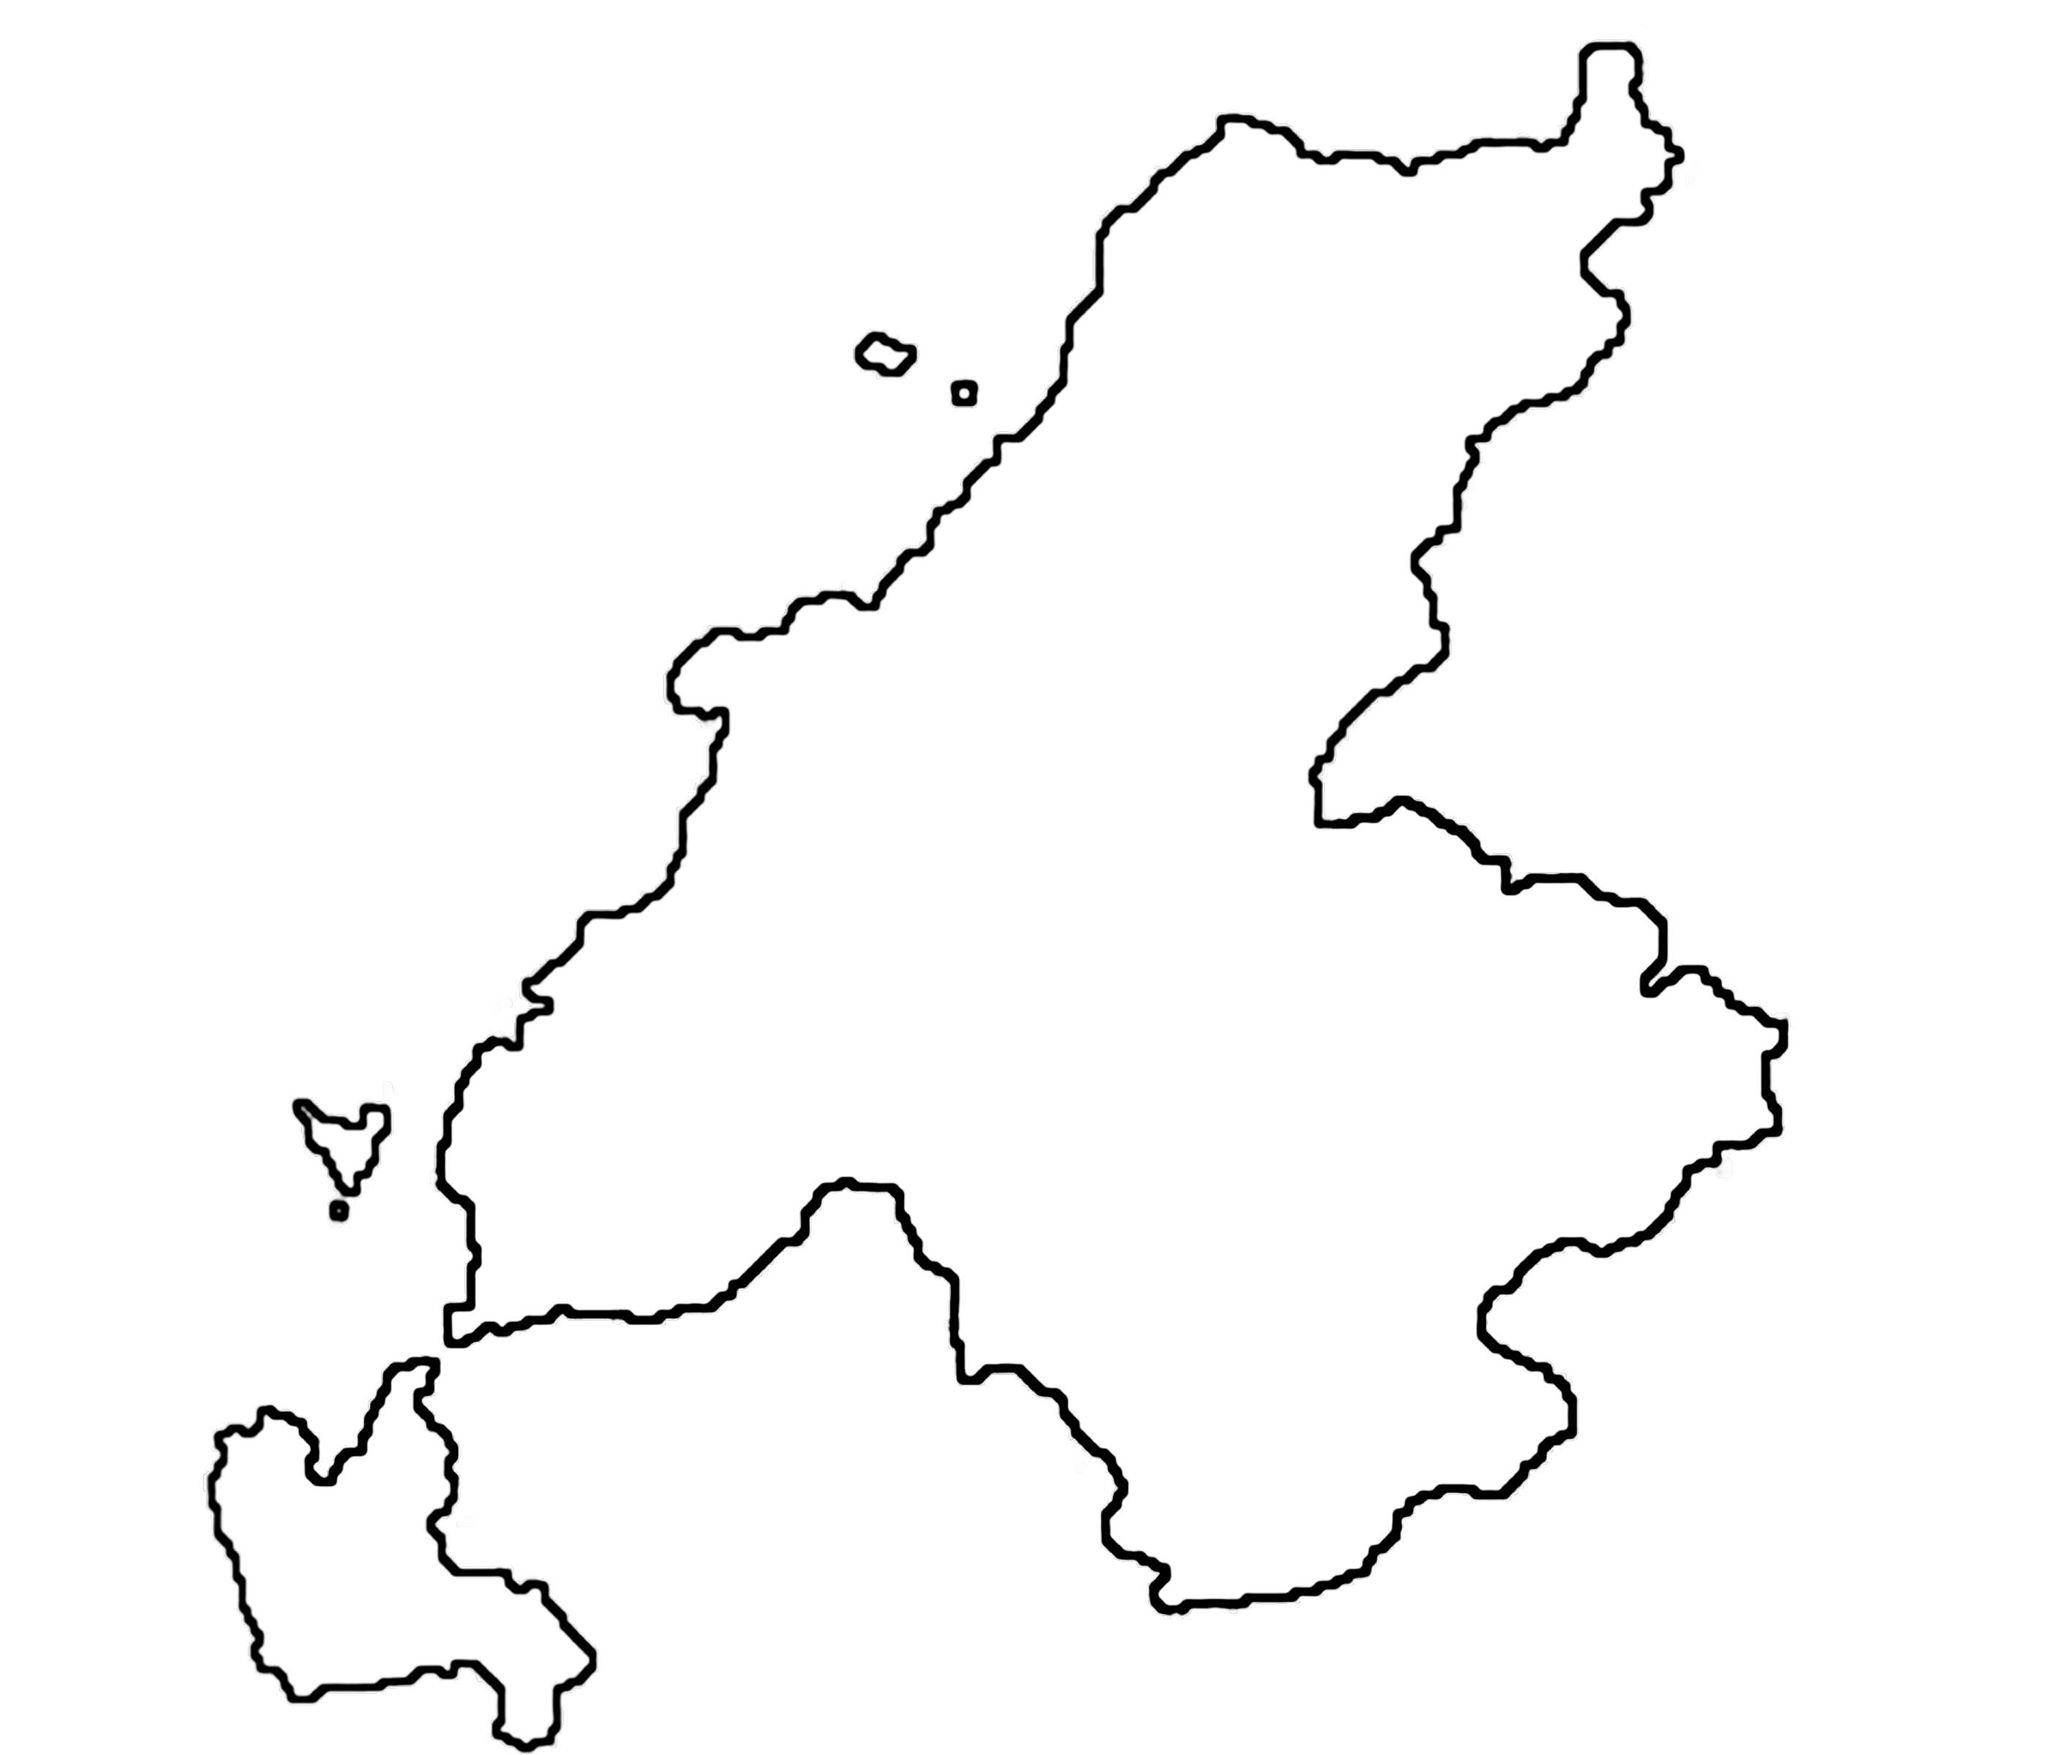
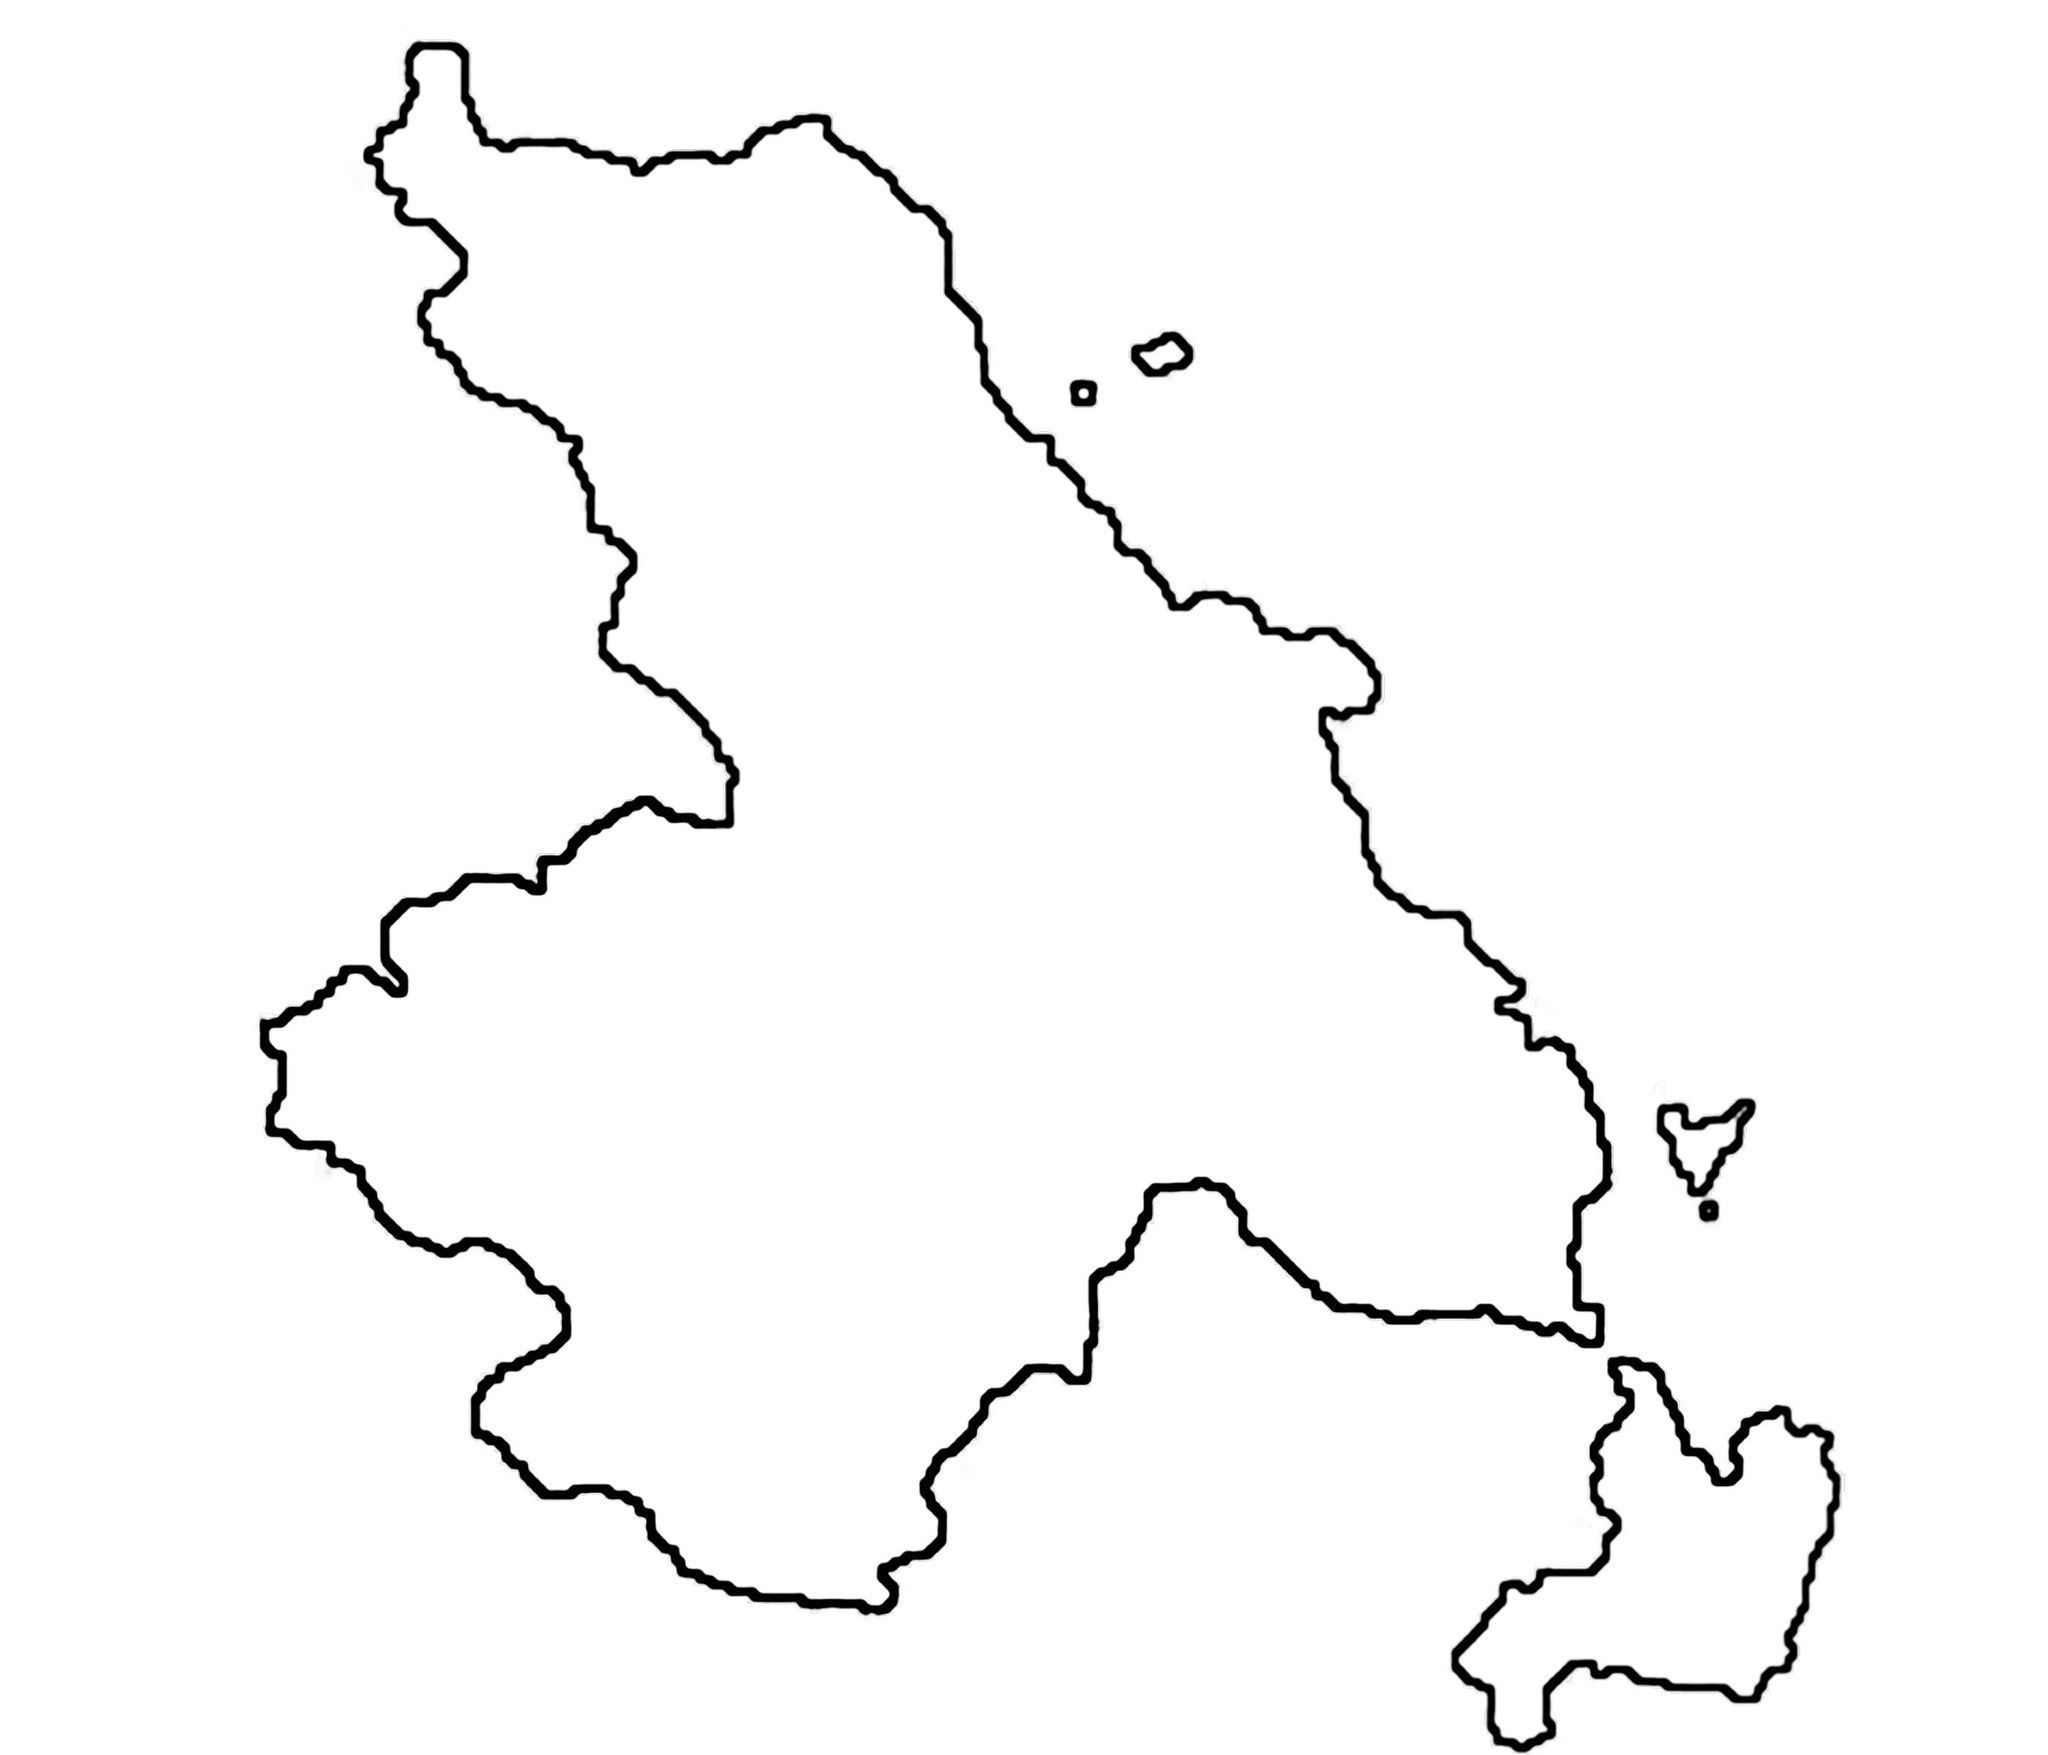
flip map image

diff --git a/src/config/topcodes.js b/src/config/topcodes.js
@@ -2,5 +2,6 @@ export const topcodeFeatures = {
   31: "mountain",
   117: "mountain",
   59: "forest",
-  143: "forest"
+  143: "forest",
+  327: "forest"
 };
